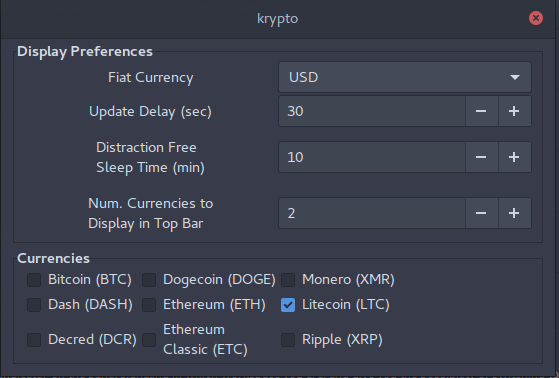
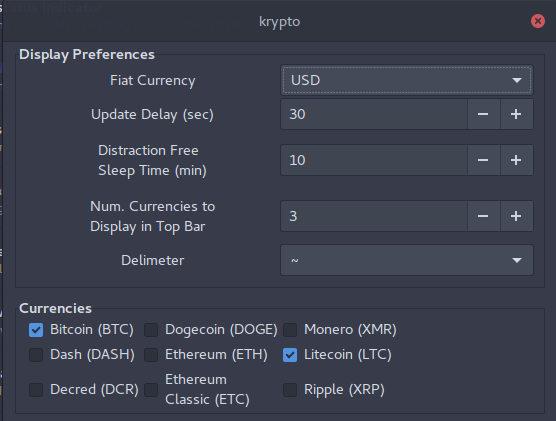
add ability to change delimiter

diff --git a/krypto@sereneblue/prefs.js b/krypto@sereneblue/prefs.js
@@ -51,6 +51,7 @@ const krypto_widget = new GObject.Class({
         	this.pack_start(main_container, true, true, 0);
 
 	        let prefs_combo_fiat = builder.get_object("prefs_combo_fiat");
+	        let prefs_combo_delim = builder.get_object("prefs_combo_delim");
 	        let prefs_spin_update = builder.get_object("prefs_spin_update");
 	        let prefs_spin_distraction = builder.get_object("prefs_spin_distraction");
 	        let prefs_spin_num = builder.get_object("prefs_spin_num");
@@ -69,6 +70,7 @@ const krypto_widget = new GObject.Class({
 	        this.settings.bind(Settings.UPDATE_SEC, prefs_spin_update, "value", Gio.SettingsBindFlags.DEFAULT);
 	        this.settings.bind(Settings.DISTRACTION_MIN, prefs_spin_distraction, "value", Gio.SettingsBindFlags.DEFAULT);
 	        this.settings.bind(Settings.NUM_DISPLAY, prefs_spin_num, "value", Gio.SettingsBindFlags.DEFAULT);
+	        this.settings.bind(Settings.DELIMITER, prefs_combo_delim, "active", Gio.SettingsBindFlags.DEFAULT);
 	        this.settings.bind(Settings.BTC_ENABLED, prefs_crypto_btc, "active", Gio.SettingsBindFlags.DEFAULT);
 	        this.settings.bind(Settings.DASH_ENABLED, prefs_crypto_dash, "active", Gio.SettingsBindFlags.DEFAULT);
 	        this.settings.bind(Settings.DCR_ENABLED, prefs_crypto_dcr, "active", Gio.SettingsBindFlags.DEFAULT);

diff --git a/krypto@sereneblue/extension.js b/krypto@sereneblue/extension.js
@@ -36,6 +36,10 @@ const krypto = new Lang.Class({
     return this._settings.get_int(Settings.UPDATE_SEC);
   },
 
+  _getDelim: function () {
+    return Settings.DELIMS[this._settings.get_int(Settings.DELIMITER)];
+  },
+
   _getFiatSymbol: function () {
     return Settings.FIAT_SYMBOLS[this._settings.get_int(Settings.FIAT)];
   },
@@ -69,7 +73,7 @@ const krypto = new Lang.Class({
     var keys = Object.keys(data);
     for (var i = 0; i < keys.length; i++){
       if (i < this._settings.get_int(Settings.NUM_DISPLAY)) {
-        txt_label += (keys[i] + " " + this._getSymbol() + data[keys[i]][this._getFiatSymbol()].toString() + " | ");
+        txt_label += (keys[i] + " " + this._getSymbol() + data[keys[i]][this._getFiatSymbol()].toString() + " " + this._getDelim() + " ");
       } else {
         // put the rest of the currencies in popup menu TODO
       }

diff --git a/krypto@sereneblue/constants.js b/krypto@sereneblue/constants.js
@@ -3,6 +3,7 @@ const FIAT = "krypto-prefs-fiat-index";
 const UPDATE_SEC = "krypto-prefs-update";
 const DISTRACTION_MIN = "krypto-prefs-distraction";
 const NUM_DISPLAY = "krypto-prefs-num";
+const DELIMITER = "krypto-prefs-delim"
 const BTC_ENABLED = "krypto-prefs-btc";
 const DASH_ENABLED = "krypto-prefs-dash";
 const DCR_ENABLED = "krypto-prefs-dcr";
@@ -41,4 +42,6 @@ const FIAT_SYMBOLS = ["AUD", "CAD", "CHF", "CNY",
 					"EUR", "GBP", "HKD", "INR",
 					"JPY", "MXN", "NZD", "RUB",
 					"SGD", "USD"];
+const DELIMS = ["|", "·", "•", "◈",
+				"✖", "†", "‡", "~"]
 

diff --git a/README.md b/README.md
@@ -46,6 +46,9 @@ Limit how many currencies are shown in the top bar. Currencies that aren't displ
 #### Update Interval
 Change how frequently you'd like the price to refresh. Default is 30 seconds.
 
+### Delimiter
+Change the delimiter that separates the currencies in the top bar.
+
 # Credits
 
 Samuel Masue for [gnome-shell-tw](https://github.com/smasue/gnome-shell-tw) which this extension is built on.
